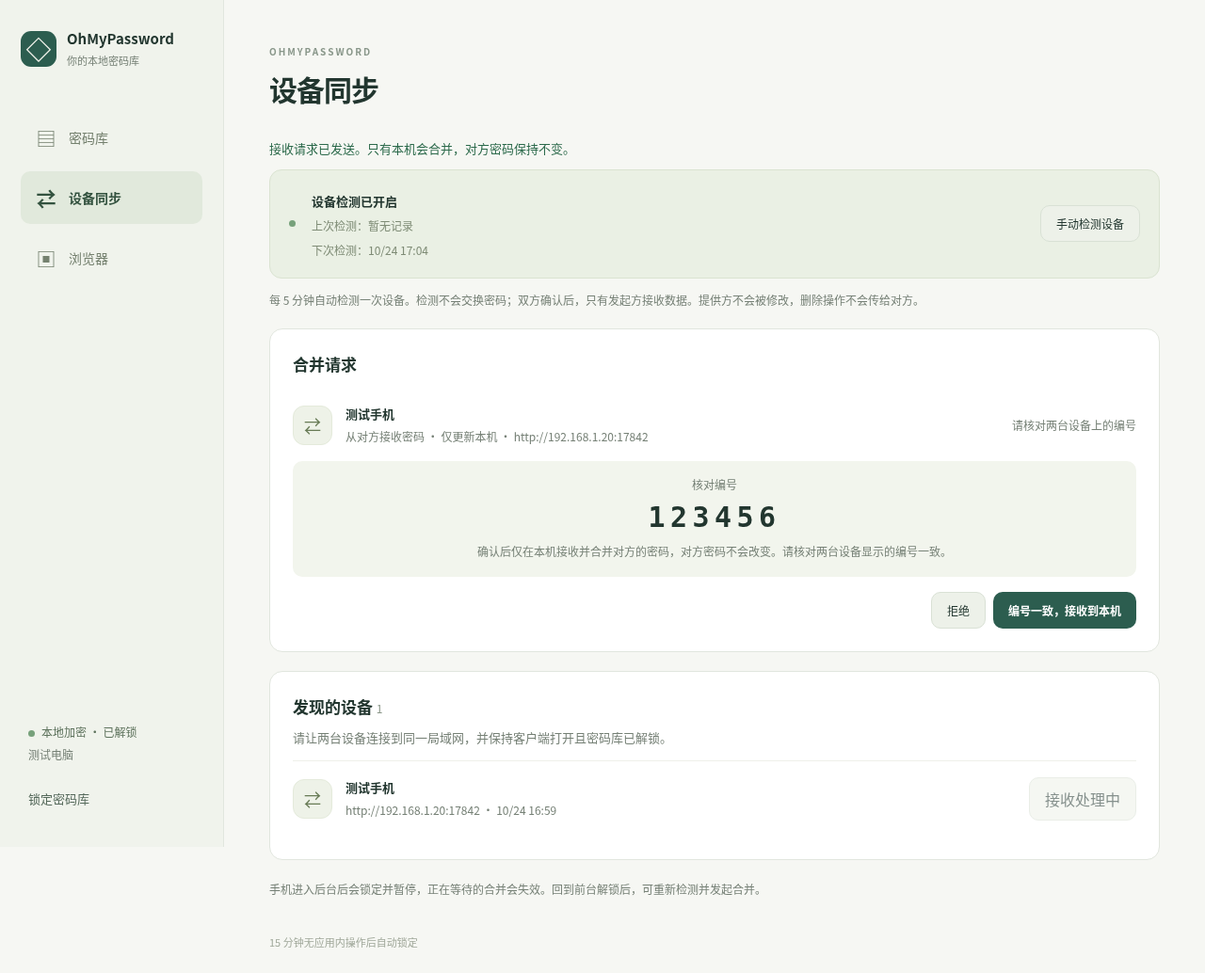
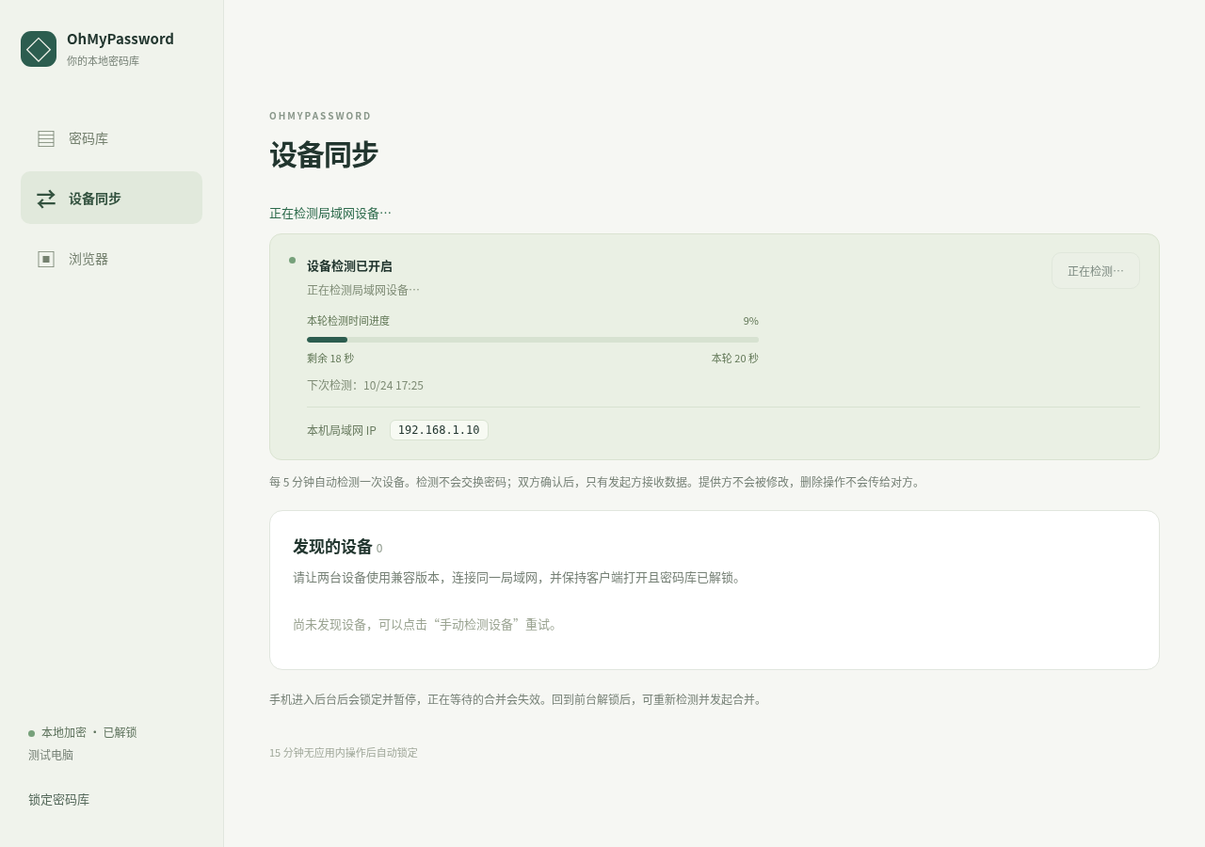
Show local network addresses and discovery countdown in v0.2.4

diff --git a/desktop/src/main.ts b/desktop/src/main.ts
@@ -7,6 +7,7 @@ import './styles.css';
 const root = document.querySelector<HTMLDivElement>('#app')!;
 const esc = (value:unknown) => String(value ?? '').replace(/[&<>"']/g, c => ({'&':'&amp;','<':'&lt;','>':'&gt;','"':'&quot;',"'":'&#39;'}[c]!));
 const icon = (name:string) => ({vault:'▤',devices:'⇄',browser:'▣'}[name] ?? '◇');
+const DETECTION_NOTICE = '正在检测局域网设备…';
 let status:AppStatus|null = null;
 let entries:EntrySummary[] = [];
 let tab:'vault'|'devices'|'browser' = 'vault';
@@ -30,10 +31,59 @@ let renderedSignature = '';
 let revealed = false;
 let epoch = 0;
 let lastActivity = 0;
+let discoveryClock:{generation:number;duration:number;remaining:number;sampledAt:number}|null = null;
+let discoveryTimer:ReturnType<typeof setInterval>|null = null;
+
+function stopDiscoveryTimer(){if(discoveryTimer!==null){clearInterval(discoveryTimer);discoveryTimer=null;}}
+function resetDiscoveryProgress(){stopDiscoveryTimer();discoveryClock=null;}
+function remainingDiscoverySeconds(){return discoveryClock?Math.max(0,discoveryClock.remaining-(performance.now()-discoveryClock.sampledAt)/1000):null;}
+function recordDiscoveryProgress(next:AppStatus){
+ const service=next.service;
+ if(next.vault.locked||!service?.running||!service.discovering){resetDiscoveryProgress();return;}
+ const duration=service.discovery_duration_secs,remaining=service.discovery_remaining_secs;
+ if(!Number.isFinite(duration)||duration<=0||!Number.isFinite(remaining)||remaining<0){discoveryClock=null;return;}
+ const previous=discoveryClock?.generation===service.discovery_generation&&discoveryClock.duration===duration?remainingDiscoverySeconds():null;
+ discoveryClock={generation:service.discovery_generation,duration,remaining:Math.min(duration,remaining,previous??remaining),sampledAt:performance.now()};
+}
+function updateDiscoveryProgress(){
+ const section=document.querySelector<HTMLElement>('#discovery-progress-section');
+ if(!section)return;
+ const active=tab==='devices'&&!status?.vault.locked&&status?.service?.running&&status.service.discovering;
+ section.hidden=!active;
+ if(!active)return;
+ const progress=document.querySelector<HTMLProgressElement>('#discovery-progress');
+ const countdown=document.querySelector<HTMLElement>('#discovery-countdown');
+ const percent=document.querySelector<HTMLElement>('#discovery-percent');
+ if(!progress||!countdown||!percent)return;
+ const remaining=remainingDiscoverySeconds();
+ if(remaining===null||!discoveryClock){progress.removeAttribute('value');progress.removeAttribute('aria-valuetext');countdown.textContent='正在获取检测进度…';percent.textContent='';return;}
+ const seconds=Math.ceil(remaining),value=Math.min(100,Math.max(0,Math.floor((1-remaining/discoveryClock.duration)*100)));
+ const message=seconds>0?`剩余 ${seconds} 秒`:'正在等待检测结果…';
+ progress.value=value;progress.setAttribute('aria-valuetext',`${message}，本轮检测时间进度 ${value}%`);countdown.textContent=message;percent.textContent=`${value}%`;
+}
+function syncDiscoveryTimer(){
+ const active=tab==='devices'&&!status?.vault.locked&&status?.service?.running&&status.service.discovering&&document.querySelector('#discovery-progress-section');
+ if(!active){stopDiscoveryTimer();return;}
+ if(discoveryTimer===null)discoveryTimer=setInterval(updateDiscoveryProgress,1000);
+}
+function localAddresses(){
+ return [...new Set((status?.local_addresses??[]).filter(address=>{
+  if(typeof address!=='string')return false;
+  const parts=address.split('.');
+  if(parts.length!==4||parts.some(part=>!/^\d{1,3}$/.test(part)||Number(part)>255))return false;
+  const first=Number(parts[0]);return first>0&&first!==127&&first<224;
+ }))];
+}
+function discoveryProgressView(){
+ const service=status?.service;
+ if(!service?.running||!service.discovering)return '';
+ const duration=service.discovery_duration_secs;
+ return `<div id="discovery-progress-section" class="discovery-progress"><div class="discovery-progress-heading"><span>本轮检测时间进度</span><span id="discovery-percent"></span></div><progress id="discovery-progress" max="100" aria-label="本轮检测时间进度"></progress><div class="discovery-progress-heading"><span id="discovery-countdown">正在获取检测进度…</span>${Number.isFinite(duration)&&duration>0?`<span>本轮 ${esc(duration)} 秒</span>`:''}</div></div>`;
+}
 
 const when = (value?:number|null) => value ? new Date(value < 1e12 ? value*1000 : value).toLocaleString('zh-CN',{month:'2-digit',day:'2-digit',hour:'2-digit',minute:'2-digit'}) : '暂无记录';
 const api = async <T>(command:string,args:Record<string,unknown>={}):Promise<T> => { const generation=epoch; const result=await invoke<T>(command,args); if(generation!==epoch && command!=='lock_vault' && command!=='app_status') throw new Error('密码库会话已结束，请重新解锁。'); return result; };
-function clearSecrets() { dialogGeneration++; selected=null; history=[]; recoveryEntries=[]; restoreCandidate=null; historyFromRecovery=false; revealed=false; dialog=null; entries=[]; query=''; showUsernames=false; completedVerified.clear(); outcomesSeen.clear(); epoch++; }
+function clearSecrets() { resetDiscoveryProgress(); if(notice===DETECTION_NOTICE&&!isError)notice=''; dialogGeneration++; selected=null; history=[]; recoveryEntries=[]; restoreCandidate=null; historyFromRecovery=false; revealed=false; dialog=null; entries=[]; query=''; showUsernames=false; completedVerified.clear(); outcomesSeen.clear(); epoch++; }
 function feedback(message:string,error=false) { notice=message; isError=error; document.querySelectorAll('#notice,#dialog-notice').forEach(el=>{el.textContent=message;el.className=`notice ${error?'error':''}`;}); }
 async function run(action:()=>Promise<void>) { if(busy)return;busy=true;setBusy(true);try{await action();}catch(error){feedback(String(error),true);}finally{busy=false;setBusy(false);} }
 function setBusy(value:boolean) { document.querySelectorAll<HTMLButtonElement>('button:not([data-action="lock"]):not([data-action="close"])').forEach(el=>el.disabled=value||el.dataset.unavailable==='true');root.setAttribute('aria-busy',String(value)); }
@@ -44,6 +94,8 @@ async function refresh(renderPage=true) {
  if(current!==epoch||sequence!==refreshSequence)return;
  if(next.vault.locked && status && !status.vault.locked) clearSecrets();
  status=next;
+ if(notice===DETECTION_NOTICE&&!isError&&!next.service?.discovering)feedback(next.service?.running&&next.service.last_discovery_at?'本轮检测已结束。':'设备检测已暂停。');
+ recordDiscoveryProgress(next);updateDiscoveryProgress();syncDiscoveryTimer();
  if(!next.vault.locked){
    const values=await api<EntrySummary[]>('list_entries');
    if(current!==epoch||sequence!==refreshSequence||status?.vault.locked)return;
@@ -70,7 +122,8 @@ function mergeMessage(merge:MergeSession):string {
  return {waiting:merge.verification_code?'等待另一台设备确认':'正在连接另一台设备…',awaiting_confirmation:'请核对两台设备上的编号',merging:merge.direction==='incoming'?'正在向对方提供密码…':'正在接收并合并密码…',rejected:'本次合并已拒绝或取消',failed:'合并失败，请重试',expired:'合并请求已过期，请重新发起'}[merge.state];
 }
 const noticeMarkup = () => `<div id="notice" class="notice ${isError?'error':''}" role="status" aria-live="polite">${esc(notice)}</div>`;
-const viewSignature = () => JSON.stringify({entries,status,completed:[...completedVerified]});
+// Countdown samples update their own nodes; they do not invalidate the page.
+const viewSignature = () => JSON.stringify({entries,status:status?{...status,service:status.service?{...status.service,discovery_remaining_secs:undefined}:null}:null,completed:[...completedVerified]});
 function render() {
  renderedSignature=viewSignature();
  if(!isTauri()) { root.innerHTML=`<main class="gate"><div class="mark">◇</div><h1>OhMyPassword</h1><p>请使用桌面或移动客户端</p><p class="muted">浏览器预览只展示界面，不保存密码，也不会连接本地密码库。</p></main>`; return; }
@@ -79,7 +132,7 @@ function render() {
  root.innerHTML=`<div class="shell"><aside><a class="brand" href="#"><span class="mark small">◇</span><span>OhMyPassword<small>你的本地密码库</small></span></a><nav aria-label="主要页面">${(['vault','devices','browser'] as const).map(t=>`<button data-tab="${t}" class="nav ${tab===t?'active':''}" ${tab===t?'aria-current="page"':''}><span>${icon(t)}</span>${{vault:'密码库',devices:'设备同步',browser:'浏览器'}[t]}</button>`).join('')}</nav><div class="sidebar-foot"><span class="status-dot"></span>本地加密 · 已解锁<br><small>${esc(status.vault.device_name)}</small><button class="quiet" data-action="lock">锁定密码库</button></div></aside><main class="workspace"><header><div><span class="eyebrow">OHMYPASSWORD</span><h1>${{vault:'密码库',devices:'设备同步',browser:'浏览器连接'}[tab]}</h1></div><button class="quiet mobile-lock" data-action="lock">锁定</button>${tab==='vault'?'<button class="primary" data-action="new">＋ 新增密码</button>':''}</header>${noticeMarkup()}${tab==='vault'?vaultView():tab==='devices'?devicesView():browserView()}<footer>15 分钟无应用内操作后自动锁定${status.mobile?' · 切换到后台即锁定':''}</footer></main></div>${dialog?dialogView():''}`;
  bind();
  if(dialog){const el=document.querySelector<HTMLDialogElement>('dialog');el?.insertAdjacentHTML('afterbegin',`<div id="dialog-notice" class="notice ${isError?'error':''}" role="status" aria-live="polite">${esc(isError?notice:'')}</div>`);el?.showModal();el?.querySelector<HTMLInputElement>('input:not([type=hidden])')?.focus();}
- setBusy(busy);
+ setBusy(busy);updateDiscoveryProgress();syncDiscoveryTimer();
 }
 function renderGate() {
  const create=!status!.vault.initialized;
@@ -100,8 +153,9 @@ function devicesView(){
  const available=service?.running===true;
  const merges=service?.merges??[];
  const found=service?.discovered??[];
+ const addresses=localAddresses();
  const sessions=merges.length?`<section class="panel" aria-label="合并请求"><h2>合并请求</h2>${merges.map(merge=>`<article class="merge-card" data-merge-session="${esc(merge.id)}"><div class="device-row"><span class="site-icon">⇄</span><div><strong>${esc(merge.peer_name||'另一台设备')}</strong><small>${merge.direction==='incoming'?'对方请求接收本机密码 · 本机只读':'从对方接收密码 · 仅更新本机'} · ${esc(merge.endpoint)}</small></div><span class="merge-state ${['failed','rejected','expired'].includes(merge.state)?'error-text':''}">${esc(mergeMessage(merge))}</span></div>${merge.verification_code&&mergeActive(merge)?`<div class="verification"><span>核对编号</span><strong>${esc(merge.verification_code)}</strong><p>${merge.direction==='incoming'?'确认后仅向对方提供密码，本机密码不会被修改或删除。':'确认后仅在本机接收并合并对方的密码，对方密码不会改变。'}请核对两台设备显示的编号一致。</p></div>`:''}${merge.error?`<p class="error-text">${esc(merge.error)}</p>`:''}${merge.state==='completed'&&completedVerified.has(merge.id)?`<p class="hint">${merge.direction==='incoming'?`已提供 ${merge.source_count??0} 条密码；本机未接收或删除任何密码。`:`收到 ${merge.received_count??0} 条密码，写入 ${merge.changed_count??0} 个密码版本；本机原有密码不会因对方缺少记录而删除。`}</p>`:''}${merge.state==='awaiting_confirmation'?`<div class="merge-actions"><button class="secondary" data-respond-merge="${esc(merge.id)}" data-accept="false">拒绝</button><button class="primary" data-respond-merge="${esc(merge.id)}" data-accept="true">${merge.direction==='incoming'?'编号一致，允许提供':'编号一致，接收到本机'}</button></div>`:merge.state==='waiting'?`<div class="merge-actions"><button class="quiet" data-respond-merge="${esc(merge.id)}" data-accept="false">取消请求</button></div>`:''}</article>`).join('')}</section>`:'';
- return `<div class="summary-card"><span class="status-dot ${available?'':'offline'}"></span><div><strong>${available?'设备检测已开启':'设备检测暂不可用'}</strong><p>${status!.service_error?esc(status!.service_error):service?.discovering?'正在检测局域网设备…':`上次检测：${esc(when(service?.last_discovery_at))}`}</p>${service?.next_discovery_at?`<p>下次检测：${esc(when(service.next_discovery_at))}</p>`:''}${service?.last_error?`<p class="error-text">${esc(service.last_error)}</p>`:''}</div><button class="secondary" data-action="detect" ${!available||service?.discovering?'disabled data-unavailable="true"':''}>${service?.discovering?'正在检测…':'手动检测设备'}</button></div><p class="hint">每 5 分钟自动检测一次设备。检测不会交换密码；双方确认后，只有发起方接收数据。提供方不会被修改，删除操作不会传给对方。</p>${sessions}<section class="panel"><h2>发现的设备 <span class="count">${found.length}</span></h2><p class="muted">请让两台设备连接到同一局域网，并保持客户端打开且密码库已解锁。</p>${found.length?found.map(peer=>{const pending=merges.some(merge=>merge.peer_id===peer.id&&mergeActive(merge));return `<div class="device-row"><span class="site-icon">⇄</span><div><strong>${esc(peer.name||'OhMyPassword 设备')}</strong><small>${esc(peer.endpoint)} · ${esc(when(peer.last_seen))}</small></div><button class="secondary" data-merge-device="${esc(peer.id)}" ${!available||pending?'disabled data-unavailable="true"':''}>${pending?'接收处理中':'接收对方密码'}</button></div>`;}).join(''):'<p class="empty-line">尚未发现设备，可以点击“手动检测设备”重试。</p>'}</section><p class="hint">手机进入后台后会锁定并暂停，正在等待的合并会失效。回到前台解锁后，可重新检测并发起合并。</p>`;
+ return `<div class="summary-card discovery-summary"><span class="status-dot ${available?'':'offline'}"></span><div><strong>${available?'设备检测已开启':'设备检测暂不可用'}</strong><p>${status!.service_error?esc(status!.service_error):service?.discovering?'正在检测局域网设备…':service?.last_discovery_at?`本轮检测已结束 · 上次检测：${esc(when(service.last_discovery_at))}`:'等待开始检测'}</p>${discoveryProgressView()}${service?.next_discovery_at?`<p>下次检测：${esc(when(service.next_discovery_at))}</p>`:''}${service?.last_error?`<p class="error-text">${esc(service.last_error)}</p>`:''}</div><button class="secondary" data-action="detect" ${!available||service?.discovering?'disabled data-unavailable="true"':''}>${service?.discovering?'正在检测…':'手动检测设备'}</button><div class="local-network"><span>本机局域网 IP</span><div class="local-addresses" aria-label="本机局域网 IP">${addresses.length?addresses.map(address=>`<span class="local-address">${esc(address)}</span>`).join(''):'<span class="muted">未获取到局域网 IP，请连接 Wi-Fi 或有线网络。</span>'}</div></div></div><p class="hint">每 5 分钟自动检测一次设备。检测不会交换密码；双方确认后，只有发起方接收数据。提供方不会被修改，删除操作不会传给对方。</p>${sessions}<section class="panel"><h2>发现的设备 <span class="count">${found.length}</span></h2><p class="muted">请让两台设备使用兼容版本，连接同一局域网，并保持客户端打开且密码库已解锁。</p>${found.length?found.map(peer=>{const pending=merges.some(merge=>merge.peer_id===peer.id&&mergeActive(merge));return `<div class="device-row"><span class="site-icon">⇄</span><div><strong>${esc(peer.name||'OhMyPassword 设备')}</strong><small>${esc(peer.endpoint)} · ${esc(when(peer.last_seen))}</small></div><button class="secondary" data-merge-device="${esc(peer.id)}" ${!available||pending?'disabled data-unavailable="true"':''}>${pending?'接收处理中':'接收对方密码'}</button></div>`;}).join(''):'<p class="empty-line">尚未发现设备，可以点击“手动检测设备”重试。</p>'}</section><p class="hint">手机进入后台后会锁定并暂停，正在等待的合并会失效。回到前台解锁后，可重新检测并发起合并。</p>`;
 }
 function browserView(){
  const online=status!.service?.running===true;
@@ -158,7 +212,7 @@ async function action(name:string){
  if(name==='delete'){dialog='delete';render();return;}
  if(name==='generate'){const alphabet='ABCDEFGHJKLMNPQRSTUVWXYZabcdefghijkmnopqrstuvwxyz23456789!@#$%*-_';const bytes=crypto.getRandomValues(new Uint8Array(48));let value='';for(const n of bytes){if(n<Math.floor(256/alphabet.length)*alphabet.length)value+=alphabet[n%alphabet.length];if(value.length===24)break;}const input=document.querySelector<HTMLInputElement>('#entry-password')!;input.value=value;return;}
  await run(async()=>{
-  if(name==='detect'){await api('detect_devices');feedback('正在检测局域网设备…');await refresh();}
+  if(name==='detect'){await api('detect_devices');feedback(DETECTION_NOTICE);await refresh();}
   if(name==='copy-password'){await writeText(document.querySelector<HTMLInputElement>('#entry-password')!.value);feedback('密码已复制，请留意剪贴板。');}
   if(name==='recovery'){notice='';isError=false;recoveryEntries=await api<EntrySummary[]>('list_recovery_entries');selected=null;history=[];restoreCandidate=null;dialog='recovery';render();}
   if(name==='history'&&selected)await openHistory(selected.id,false);

diff --git a/desktop/src/styles.css b/desktop/src/styles.css
@@ -12,3 +12,5 @@
 @media(max-width:650px){.toolbar{gap:12px}.toolbar>.search{flex-basis:100%;max-width:none}.toolbar>.count{margin-left:auto}}
 
 .recovery-entry{display:flex;width:100%;align-items:center;justify-content:space-between;gap:14px;text-align:left;padding:16px 10px;border-bottom:1px solid var(--line);border-radius:0}.recovery-entry>span:first-child{min-width:0}.recovery-entry strong,.recovery-entry small{display:block;overflow-wrap:anywhere}.recovery-entry small{margin-top:5px}.restore-history{display:block;margin-top:12px;font-size:12px}.history strong{overflow-wrap:anywhere}.history p{overflow-wrap:anywhere}
+
+.discovery-summary{display:grid;grid-template-columns:7px minmax(0,1fr) auto;align-items:start;gap:12px}.discovery-summary>.status-dot{margin:5px 0 0}.discovery-summary>.local-network{grid-column:2/-1;border-top:1px solid #d8e2d1;padding-top:13px;display:flex;align-items:flex-start;gap:14px;font-size:12px}.local-network>span{color:#6a7c61;flex-shrink:0;line-height:1.9}.local-addresses{display:flex;flex-wrap:wrap;gap:6px 10px;min-width:0}.local-address{font-family:ui-monospace,monospace;background:#f7faf3;border:1px solid #d9e3d2;padding:3px 8px;border-radius:6px;font-size:12px;overflow-wrap:anywhere}.local-addresses>.muted{font-size:12px;margin:0}.discovery-progress{margin:14px 0 10px;max-width:480px}.discovery-progress[hidden]{display:none}.discovery-progress-heading{display:flex;justify-content:space-between;gap:10px;flex-wrap:wrap;font-size:11px;color:#607655;line-height:1.6}.discovery-progress progress{display:block;appearance:none;width:100%;height:6px;margin:8px 0;border:0;border-radius:5px;overflow:hidden;background:#d7e2d1;accent-color:var(--green)}.discovery-progress progress::-webkit-progress-bar{background:#d7e2d1;border-radius:5px}.discovery-progress progress::-webkit-progress-value{background:var(--green);border-radius:5px}.discovery-progress progress::-moz-progress-bar{background:var(--green);border-radius:5px}@media(max-width:650px){.discovery-summary{gap:10px;grid-template-columns:7px minmax(0,1fr)}.discovery-summary>button{grid-column:2;justify-self:start}.discovery-summary>.local-network{grid-column:2;flex-direction:column;gap:6px}.discovery-progress{max-width:none}}

diff --git a/desktop/src/types.ts b/desktop/src/types.ts
@@ -3,7 +3,7 @@ export interface VaultStatus { initialized:boolean; locked:boolean; device_id:st
 export interface DiscoveredPeer { id:string; name:string; endpoint:string; last_seen:number }
 export type MergeState = 'waiting'|'awaiting_confirmation'|'merging'|'completed'|'rejected'|'failed'|'expired';
 export interface MergeSession { id:string; peer_id:string; peer_name:string; endpoint:string; direction:'incoming'|'outgoing'; state:MergeState; verification_code:string|null; created_at:number; expires_at:number; completed_at:number|null; error:string|null; received_count?:number|null; changed_count?:number|null; source_count?:number|null }
-export interface ServiceStatus { local_endpoint:string; lan_port:number; running:boolean; last_error:string|null; discovery_generation:number; last_discovery_at:number|null; next_discovery_at:number|null; discovering:boolean; discovered:DiscoveredPeer[]; merges:MergeSession[] }
+export interface ServiceStatus { local_endpoint:string; lan_port:number; running:boolean; last_error:string|null; discovery_generation:number; last_discovery_at:number|null; next_discovery_at:number|null; discovering:boolean; discovery_duration_secs:number; discovery_remaining_secs:number; discovered:DiscoveredPeer[]; merges:MergeSession[] }
 export interface AppStatus { vault:VaultStatus; service:ServiceStatus|null; service_error:string|null; local_addresses:string[]; mobile:boolean }
 export interface EntrySummary { id:string; hostname:string; title:string; username:string; version:Version; deleted:boolean; conflict_count:number }
 export interface Entry { id:string; hostname:string; title:string; username:string; password:string; notes:string; version:Version; deleted:boolean }

diff --git a/desktop/service/src/lib.rs b/desktop/service/src/lib.rs
@@ -32,6 +32,7 @@ use tokio::sync::{watch, Notify, Semaphore};
 use zeroize::Zeroize;
 
 pub type Result<T> = std::result::Result<T, Error>;
+const DISCOVERY_DURATION_SECS: u64 = 20;
 #[derive(Debug)]
 pub enum Error {
     Authentication,
@@ -163,6 +164,8 @@ pub struct ServiceStatus {
     pub last_discovery_at: Option<u64>,
     pub next_discovery_at: Option<u64>,
     pub discovering: bool,
+    pub discovery_duration_secs: u64,
+    pub discovery_remaining_secs: u64,
     pub merges: Vec<MergeSession>,
     pub last_error: Option<String>,
     pub discovered: Vec<DiscoveredPeer>,
@@ -237,6 +240,8 @@ impl Service {
                 last_discovery_at: None,
                 next_discovery_at: None,
                 discovering: false,
+                discovery_duration_secs: DISCOVERY_DURATION_SECS,
+                discovery_remaining_secs: 0,
                 merges: vec![],
                 last_error: None,
                 discovered: vec![],
@@ -347,13 +352,23 @@ impl Service {
                 last_discovery_at: None,
                 next_discovery_at: None,
                 discovering: false,
+                discovery_duration_secs: DISCOVERY_DURATION_SECS,
+                discovery_remaining_secs: 0,
                 discovered: vec![],
                 merges: vec![],
             });
         status.running =
             self.inner.active.load(Ordering::Acquire) && !*self.inner.shutdown.borrow();
-        status.discovering =
-            status.running && status.last_discovery_at.is_some_and(|at| now() < at + 20);
+        status.discovery_remaining_secs = if status.running {
+            status.last_discovery_at.map_or(0, |at| {
+                at.saturating_add(DISCOVERY_DURATION_SECS)
+                    .saturating_sub(now())
+                    .min(DISCOVERY_DURATION_SECS)
+            })
+        } else {
+            0
+        };
+        status.discovering = status.discovery_remaining_secs > 0;
         if let Ok(mut found) = self.inner.discovered.lock() {
             found.retain(|_, p| now().saturating_sub(p.last_seen) < 660);
             status.discovered = found.values().cloned().collect();
@@ -378,6 +393,7 @@ impl Service {
         manual::abort_sessions(&self.inner, "密码库已锁定，合并已取消");
         if let Ok(mut status) = self.inner.status.lock() {
             status.discovering = false;
+            status.discovery_remaining_secs = 0;
             status.last_discovery_at = None;
             status.next_discovery_at = None;
             status.last_error = None;
@@ -450,10 +466,12 @@ impl Inner {
             return;
         }
         if let Ok(mut status) = self.status.lock() {
+            let started = now();
             status.discovery_generation = status.discovery_generation.saturating_add(1);
-            status.last_discovery_at = Some(now());
-            status.next_discovery_at = Some(now() + self.discovery_interval_secs);
+            status.last_discovery_at = Some(started);
+            status.next_discovery_at = Some(started + self.discovery_interval_secs);
             status.discovering = true;
+            status.discovery_remaining_secs = DISCOVERY_DURATION_SECS;
         }
         self.detect_trigger.notify_one();
     }

diff --git a/desktop/service/src/discovery.rs b/desktop/service/src/discovery.rs
@@ -45,7 +45,8 @@ impl Discovery {
                         thread::sleep(Duration::from_millis(150));
                         continue;
                     };
-                    let until = Instant::now() + Duration::from_secs(20);
+                    let until =
+                        Instant::now() + Duration::from_secs(crate::DISCOVERY_DURATION_SECS);
                     while Instant::now() < until
                         && state.ensure_active().is_ok()
                         && !*state.shutdown.borrow()

diff --git a/desktop/README.md b/desktop/README.md
@@ -8,7 +8,7 @@
 
 1. 首次打开设置设备名称和至少 10 个字符的主密码。主密码无法找回；设备数据以 Argon2id 派生密钥、AES-256-GCM 加密保存在应用数据目录中。
 2. 在「密码库」新增网站 hostname、账号和密码，点击条目编辑。列表顶部提供「账号明文显示」开关，默认关闭，关闭时不在列表 DOM 中保留用户名明文；当前会话切换页面保留设置，锁定或重新解锁后恢复隐藏。开关只影响列表，打开记录仍可正常编辑账号。密码默认隐藏，只有明确点击显示/复制才展示或复制。新增、修改和删除只保存到本机，不会自动传给其他设备。
-3. 在设备页面查看局域网内的 OhMyPassword。解锁后立即检测一次，之后每 **300 秒**自动检测，也可点击「手动检测」。检测只更新设备列表，不读取或合并对方密码本。
+3. 在设备页面查看局域网内的 OhMyPassword。解锁后立即检测一次，之后每 **300 秒**自动检测，也可点击「手动检测」。检测只更新设备列表，不读取或合并对方密码本。页面显示本机局域网 IPv4 地址和约 20 秒的本轮时间进度、百分比与倒计时；多地址分别显示，结束后可再次手动检测。
 4. 在需要取得密码的设备上选择来源设备，点击「接收对方密码」。两端显示会话校验码（SAS）后核对完全一致；发起方确认「接收到本机」，提供方确认「允许提供」。只有双方确认后才单向传输：发起方合并并保存，提供方密码库保持不变。发起方成功后提示 **「已合并密码本」**，提供方提示「已向对方提供密码，本机密码未修改」。无需邀请码，也不会开始自动同步。
 5. 浏览器插件自动连接本机客户端，无需创建或粘贴额外 token。客户端必须运行且已解锁；插件根据当前网站的可注册主域名匹配密码，也可将新密码保存到本机密码本，保存不会触发局域网合并。
 6. 手动锁定或 15 分钟无应用内操作后，密码 API 和正在等待的合并会话停止；解锁只恢复设备检测，不自动合并。桌面失去焦点不会锁定，方便浏览器插件使用；关闭窗口会退出进程，最小化仍运行。当前没有托盘及开机自启。

diff --git a/desktop/service/README.md b/desktop/service/README.md
@@ -1,6 +1,6 @@
 # OhMyPassword 本地服务与单向接收
 
-桌面端与 Android / iOS 共用的 Rust 服务。0.2.3 的局域网发现与接收使用**协议 3**；本机浏览器接口继续使用**协议 2**。密码库格式仍由 `ohmypassword-core` 管理。服务不提供网络解锁接口；锁定或暂停时不能读取密码、批准请求或继续接收。
+桌面端与 Android / iOS 共用的 Rust 服务。0.2.3 起的局域网发现与接收使用**协议 3**；本机浏览器接口继续使用**协议 2**。密码库格式仍由 `ohmypassword-core` 管理。服务不提供网络解锁接口；锁定或暂停时不能读取密码、批准请求或继续接收。
 
 ## 浏览器接口
 
@@ -20,6 +20,7 @@
 ## 设备发现
 
 - 默认每 **300 秒**检测一次，用户也可调用 `detect_devices()`；手动检测或恢复应用后重新安排下一轮检测。每轮浏览 20 秒，设备列表保留最近 660 秒内实际发现的结果。
+- `ServiceStatus` 提供 `discovery_duration_secs` 与 `discovery_remaining_secs`，用于本轮检测时间进度；暂停或本轮时间结束后剩余归零。前端按每次状态快照在本地更新倒计时，不增加密码查询或设备探测频率；本机地址来自原生 `AppStatus.local_addresses`。这不是设备覆盖率或连接成功率。手机原生检测通过周期性调度启动，可能比服务计时起点稍晚。
 - 桌面使用 `_ohmypassword._tcp.local.` mDNS-SD，TXT 为 `protocol=3` 和 `device_id`；手机通过原生 NSD / Bonjour 将新结果交给服务。不发现旧版双向协议设备，广播不包含密码或密钥。
 - 检测只更新设备列表。新增、修改、删除密码、浏览器保存、解锁和恢复应用，都不会触发密码传输。
 - 首版支持 IPv4 私网、回环和链路本地地址。LAN 服务默认端口 `17842`；只使用数字 IP，不解析远端 URL 主机名、不跟随重定向、不使用系统代理。

diff --git a/README.md b/README.md
@@ -2,7 +2,9 @@
 
 本地密码管理器，包含浏览器插件、桌面客户端和 Android / iOS 客户端。密码在设备上加密保存，通过局域网检测设备并手动合并密码本，不依赖云端密码服务器。
 
-当前主干为 **0.2.3**：合并改为单向接收。需要密码的设备发起请求、两端确认后，只有发起方导入对方当前有效的密码；提供方密码库不会被修改，删除记录不会传给其他设备。插件免连接令牌、设备免邀请码；每 **5 分钟**自动检测，也可手动检测。
+当前主干为 **0.2.4**：合并改为单向接收。需要密码的设备发起请求、两端确认后，只有发起方导入对方当前有效的密码；提供方密码库不会被修改，删除记录不会传给其他设备。插件免连接令牌、设备免邀请码；每 **5 分钟**自动检测，也可手动检测。
+
+设备同步页现在显示本机局域网 IPv4 地址，以及每轮约 20 秒检测的进度条、百分比和剩余秒数。进度表示本轮检测时间，不代表已扫描全部局域网设备；无地址时会提示连接 Wi-Fi 或有线网络。
 
 如果旧版合并后密码列表变空，请先停止合并并保留两台设备的数据，按 [历史恢复说明](RECOVERY.md) 备份原库，再检查本机历史。旧版会双向传播删除；是否能恢复取决于原历史或备份是否仍在，不能保证所有情况都可找回。
 

diff --git a/mobile/README.md b/mobile/README.md
@@ -1,6 +1,6 @@
 # OhMyPassword 移动端
 
-Android 和 iOS 原生客户端，共用桌面端 Rust 加密密码库、局域网合并服务及轻量前端。创建主密码后可新增、编辑、查看、复制和删除密码；密码默认隐藏。密码库列表顶部提供「账号明文显示」开关，默认关闭；开启后显示用户名，关闭或锁定后恢复隐藏，不影响打开记录进行编辑。日常修改只保存在本机。应用每 300 秒检测局域网设备，也提供「手动检测」；检测只更新设备列表。
+Android 和 iOS 原生客户端，共用桌面端 Rust 加密密码库、局域网合并服务及轻量前端。创建主密码后可新增、编辑、查看、复制和删除密码；密码默认隐藏。密码库列表顶部提供「账号明文显示」开关，默认关闭；开启后显示用户名，关闭或锁定后恢复隐藏，不影响打开记录进行编辑。日常修改只保存在本机。应用每 300 秒检测局域网设备，也提供「手动检测」；检测只更新设备列表。设备页显示本机局域网 IPv4 地址、每轮约 20 秒的检测时间进度与剩余秒数，多地址自动换行；未获得地址时会提示连接网络。
 
 ![移动端设备页面（模拟数据，浏览器布局验证）](docs/previews/mobile-devices.png)
 

diff --git a/VALIDATION.md b/VALIDATION.md
@@ -1,5 +1,11 @@
 # 验证记录
 
+## 0.2.4 检测进度与本机 IP
+
+共享界面 27 项场景本地通过；检测提示收尾修正后，相关 2 项再次通过。覆盖本机单个/多个/无 IPv4 地址、手机换行、倒计时局部更新不增加 IPC、剩余归零时等待后端确认、下一轮重置、切页与锁定清理，以及服务异常时仍可查看本机 IP。已有服务检测周期、手动重试及不触发密码合并的回归通过。
+
+进度依据服务提供的本轮时长和剩余时间，表示约 20 秒的检测时间进度。它不代表扫描完全部 IP、不保证已发现所有设备；手机原生发现受调度和系统权限影响。实际原生检查和跨平台构建结果将在完成后补充。
+
 ## 0.2.3 单向接收与历史恢复
 
 应用源码为 `ffebfd9`；[完整 CI 40114267306](https://github.com/ecojust/OhMyPassword/actions/runs/40114267306) 六个任务于 2026-10-24 全部成功。核心 28 项、服务 18 项、插件 45 项、登录 DOM 43 项、共享界面 24 项，共 158 项自动化检查通过，另有真实 Chromium 扩展回归。七个软件包全部构建并校验。
